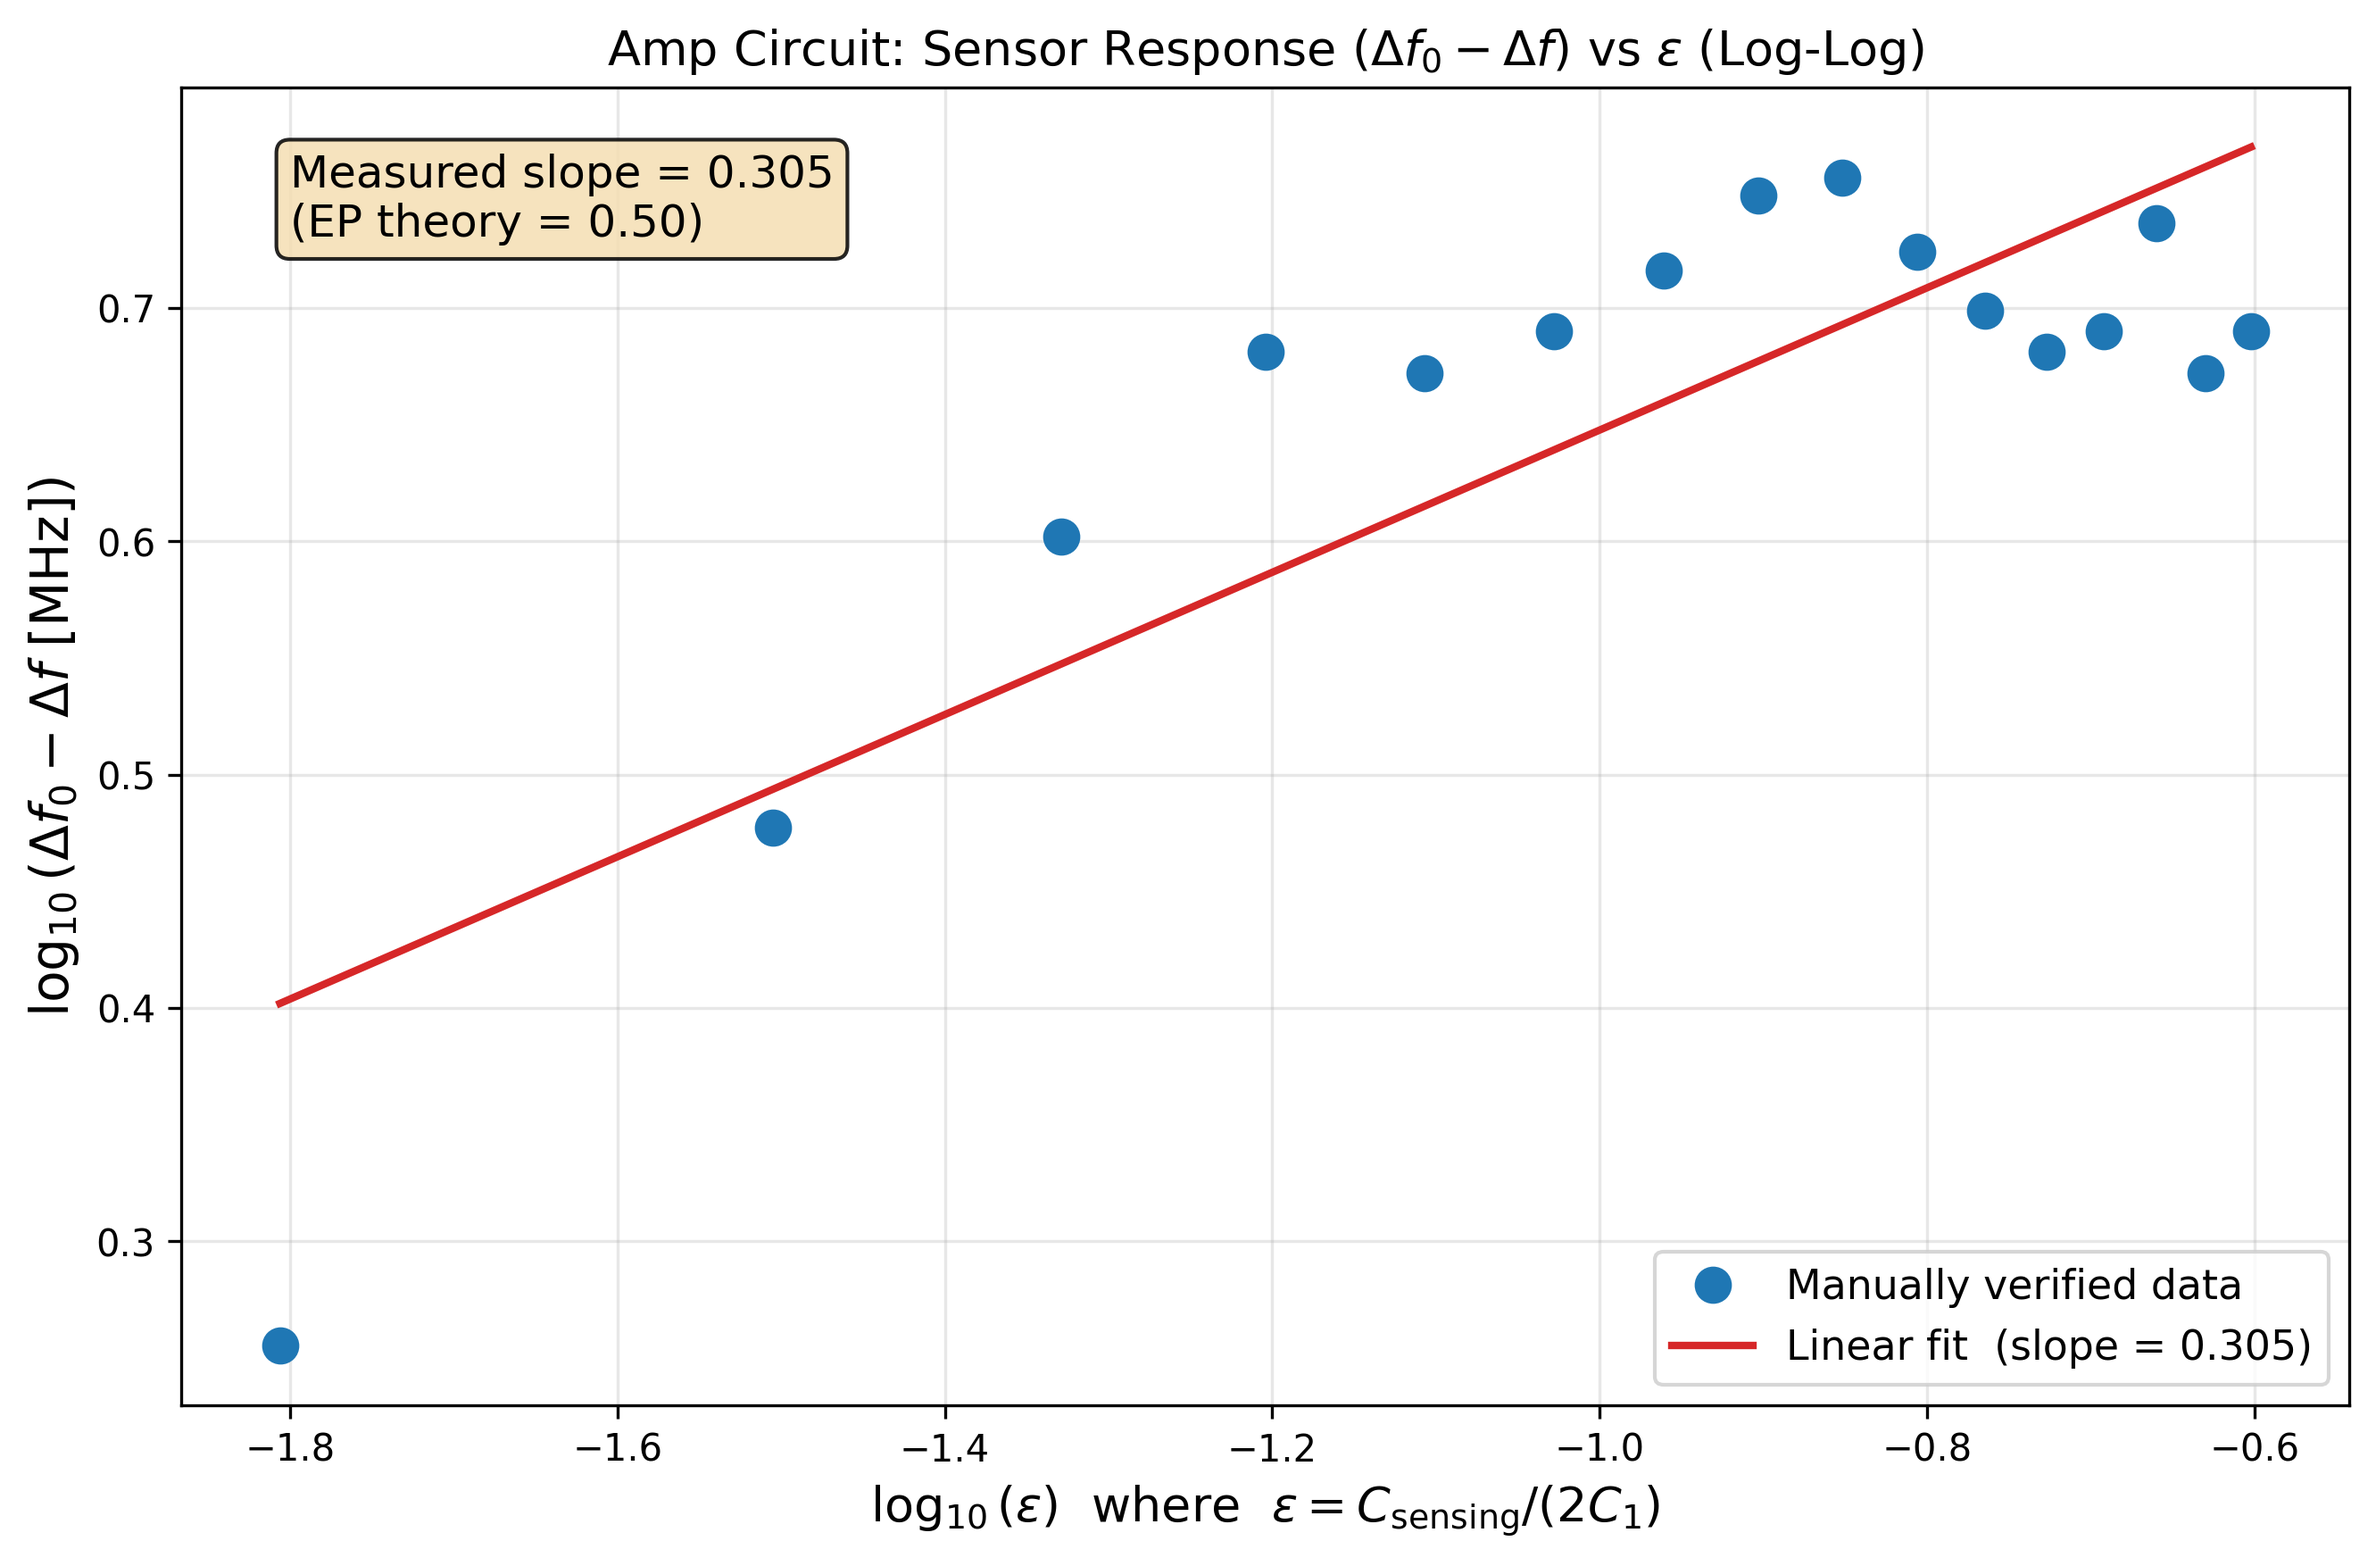
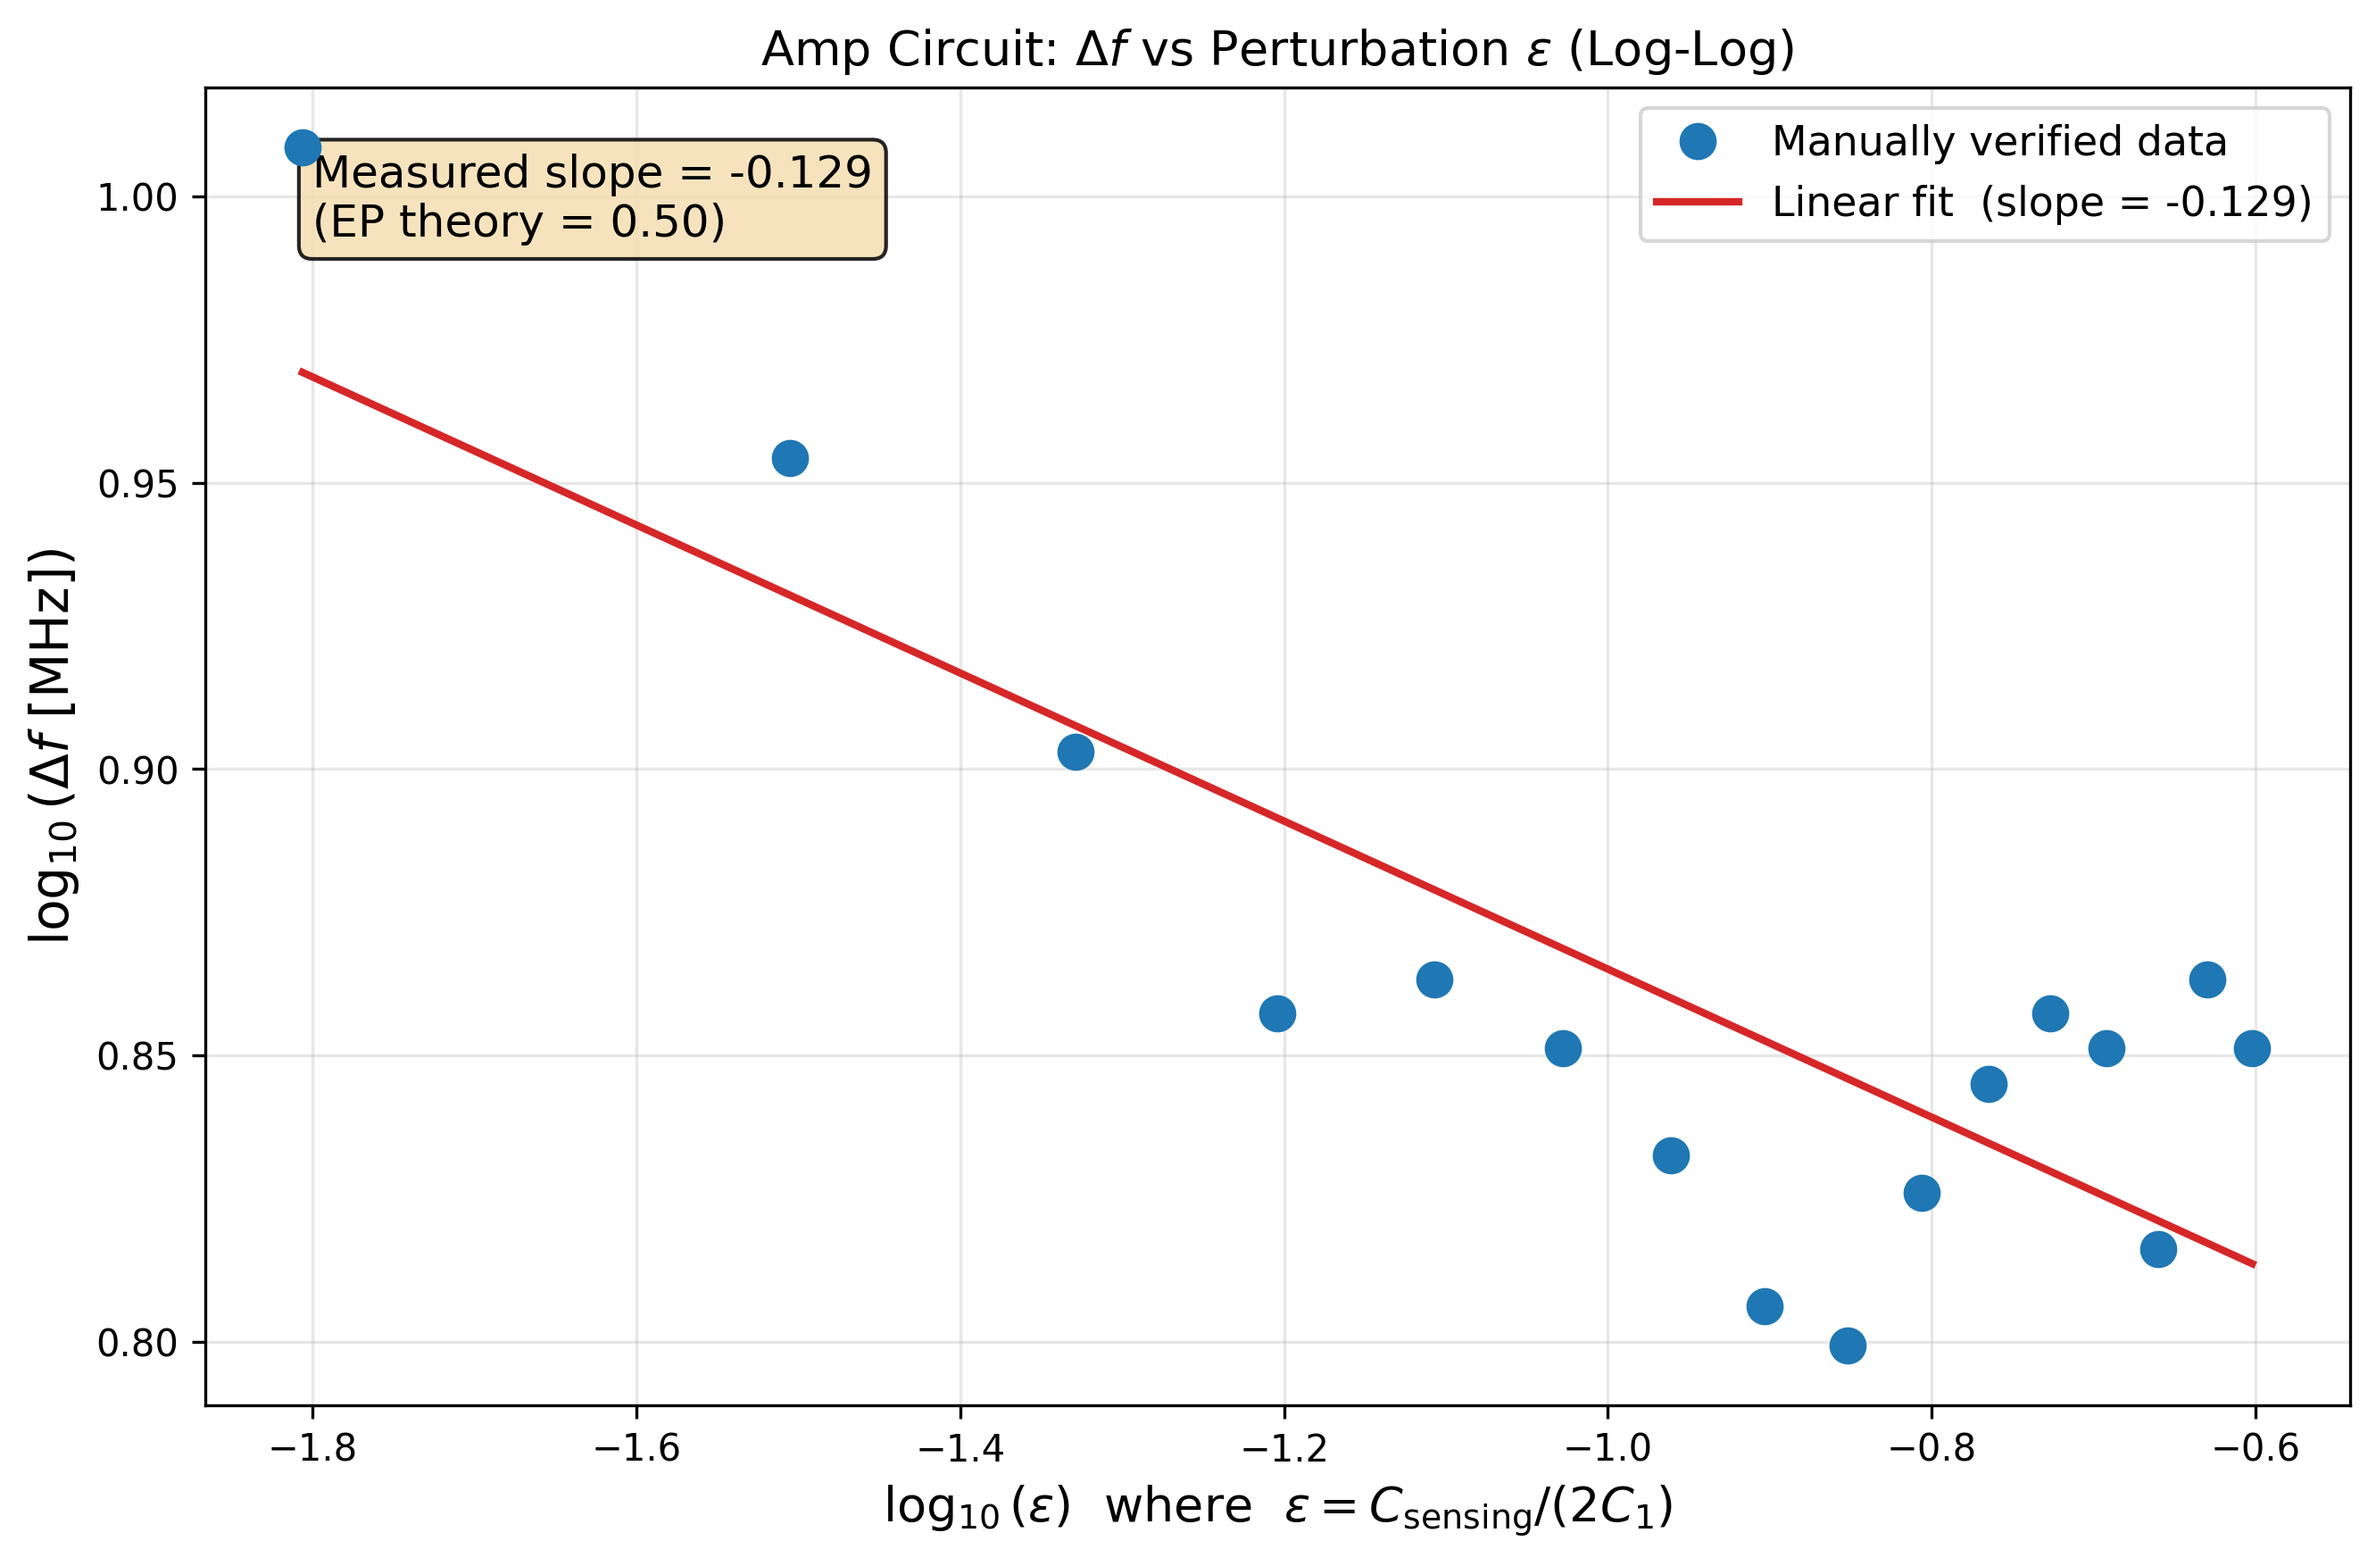
Restore original Δf plots alongside new response plots
All four PNGs now generated:
- amp_circ_loglog.png / amp_circ_linear.png  (original Δf vs ε)
- amp_circ_loglog_response.png / amp_circ_linear_response.png  (Δf₀-Δf vs ε)

https://claude.ai/code/session_01KGmhXano3uH9H8M19nEEQN

diff --git a/src/amp_circ_analysis.py b/src/amp_circ_analysis.py
@@ -149,7 +149,52 @@ def main():
 
     print(f"Log-log slope = {slope:.4f}")
 
-    # --- log-log plot ---
+    # --- original log-log plot: Δf vs ε ---
+    x_orig = df['epsilon'].values.astype(float)
+    y_orig = df['delta_f_MHz'].values.astype(float)
+    valid_orig = (x_orig > 0) & (y_orig > 0)
+    log_x_orig = np.log10(x_orig[valid_orig])
+    log_y_orig = np.log10(y_orig[valid_orig])
+    slope_orig, intercept_orig = np.polyfit(log_x_orig, log_y_orig, 1)
+
+    fig0, ax0 = plt.subplots(figsize=(9, 6))
+    ax0.plot(log_x_orig, log_y_orig, 'o', markersize=9, color='#1f77b4',
+             zorder=5, label='Manually verified data')
+    ax0.plot(log_x_orig, np.polyval([slope_orig, intercept_orig], log_x_orig),
+             '-', color='#d62728', linewidth=2,
+             label=f'Linear fit  (slope = {slope_orig:.3f})')
+    ax0.set_xlabel(r'$\log_{10}(\varepsilon)$  where  $\varepsilon = C_{\rm sensing}/(2C_1)$', fontsize=13)
+    ax0.set_ylabel(r'$\log_{10}(\Delta f\ [\rm MHz])$', fontsize=14)
+    ax0.set_title(r'Amp Circuit: $\Delta f$ vs Perturbation $\varepsilon$ (Log-Log)', fontsize=13)
+    ax0.legend(fontsize=11)
+    ax0.grid(True, alpha=0.3)
+    ax0.text(0.05, 0.95, f'Measured slope = {slope_orig:.3f}\n(EP theory = 0.50)',
+             transform=ax0.transAxes, fontsize=12, verticalalignment='top',
+             bbox=dict(boxstyle='round', facecolor='wheat', alpha=0.85))
+    plt.tight_layout()
+    plt.savefig(OUTPUT_DIR / 'amp_circ_loglog.png', dpi=300, bbox_inches='tight')
+    plt.close()
+    print(f"Saved: {OUTPUT_DIR / 'amp_circ_loglog.png'}")
+
+    # --- original linear plot: Δf vs ε ---
+    fig1, ax1 = plt.subplots(figsize=(9, 6))
+    ax1.plot(df['epsilon'], df['delta_f_MHz'], 'o', markersize=9,
+             color='#1f77b4', zorder=5, label='Manually verified data')
+    eps_c = np.linspace(x_orig[valid_orig].min(), x_orig[valid_orig].max(), 300)
+    ax1.plot(eps_c, 10**(slope_orig * np.log10(eps_c) + intercept_orig),
+             '-', color='#d62728', linewidth=2,
+             label=f'Fit: $\\Delta f \\propto \\varepsilon^{{{slope_orig:.3f}}}$')
+    ax1.set_xlabel(r'$\varepsilon = C_{\rm sensing}/(2C_1)$', fontsize=14)
+    ax1.set_ylabel(r'$\Delta f$ (MHz)', fontsize=14)
+    ax1.set_title(r'Amp Circuit: $\Delta f$ vs Perturbation $\varepsilon$', fontsize=13)
+    ax1.legend(fontsize=11)
+    ax1.grid(True, alpha=0.3)
+    plt.tight_layout()
+    plt.savefig(OUTPUT_DIR / 'amp_circ_linear.png', dpi=300, bbox_inches='tight')
+    plt.close()
+    print(f"Saved: {OUTPUT_DIR / 'amp_circ_linear.png'}")
+
+    # --- response log-log plot ---
     fig, ax = plt.subplots(figsize=(9, 6))
 
     ax.plot(log_x, log_y, 'o', markersize=9, color='#1f77b4',
